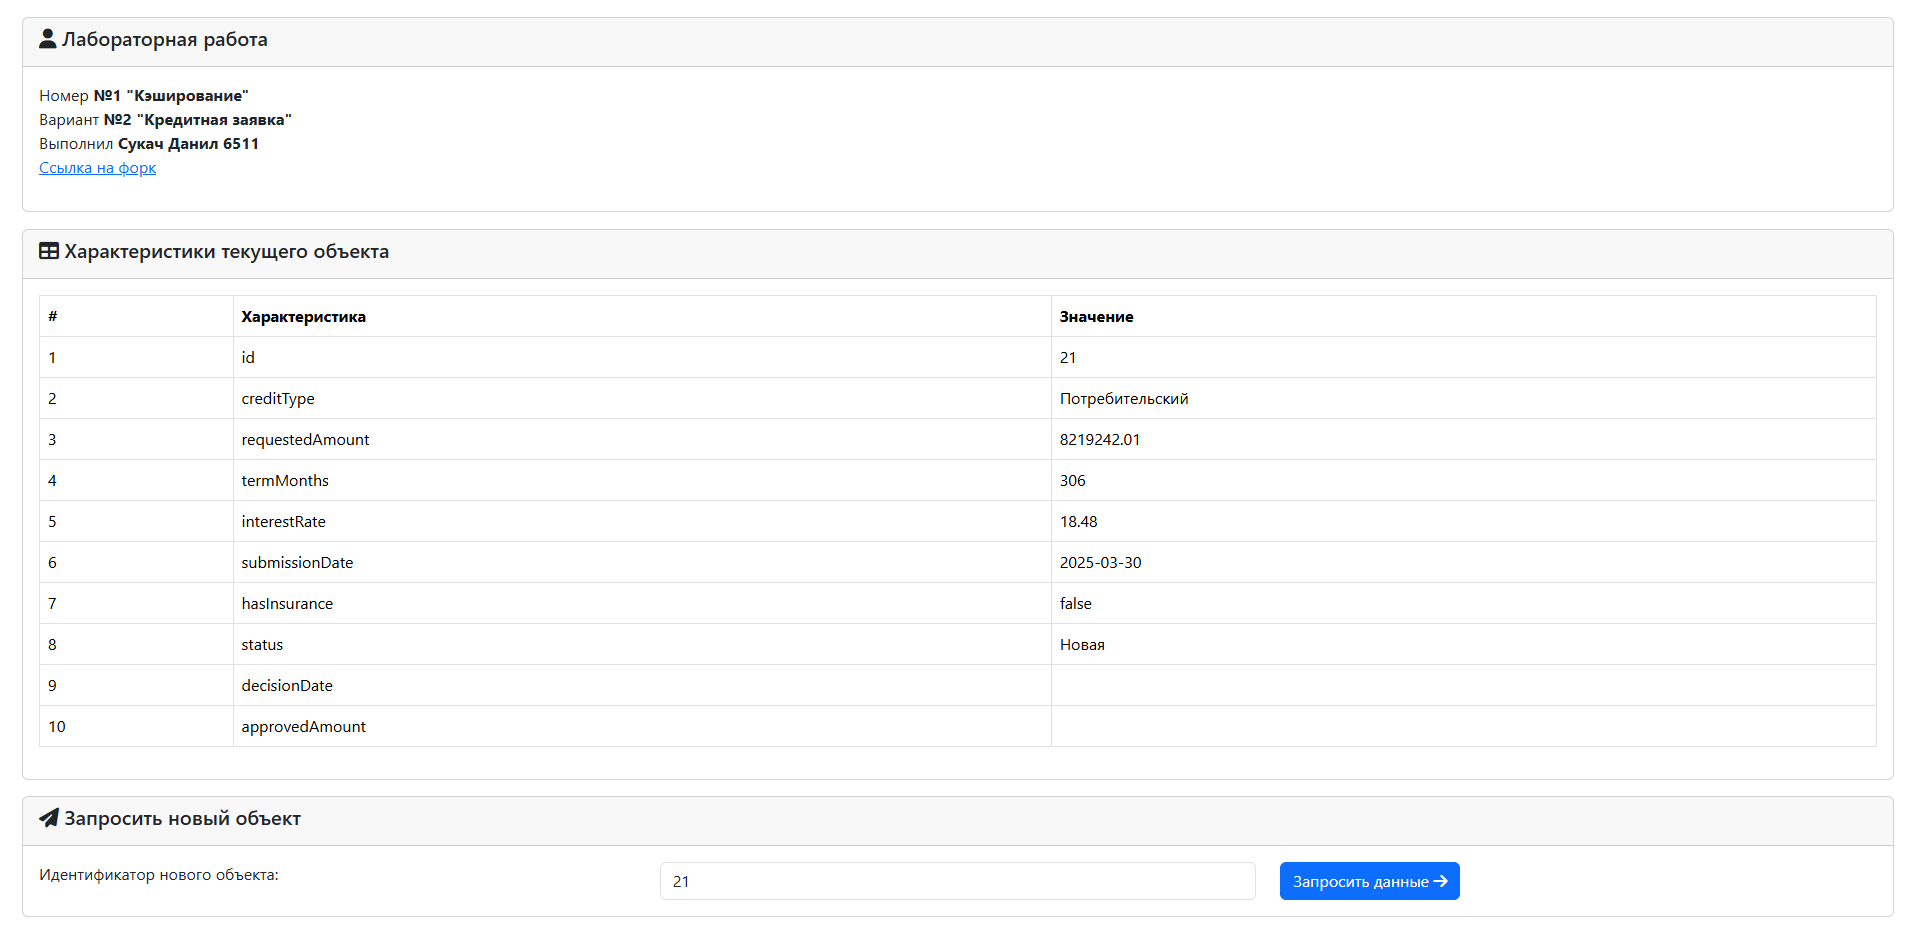
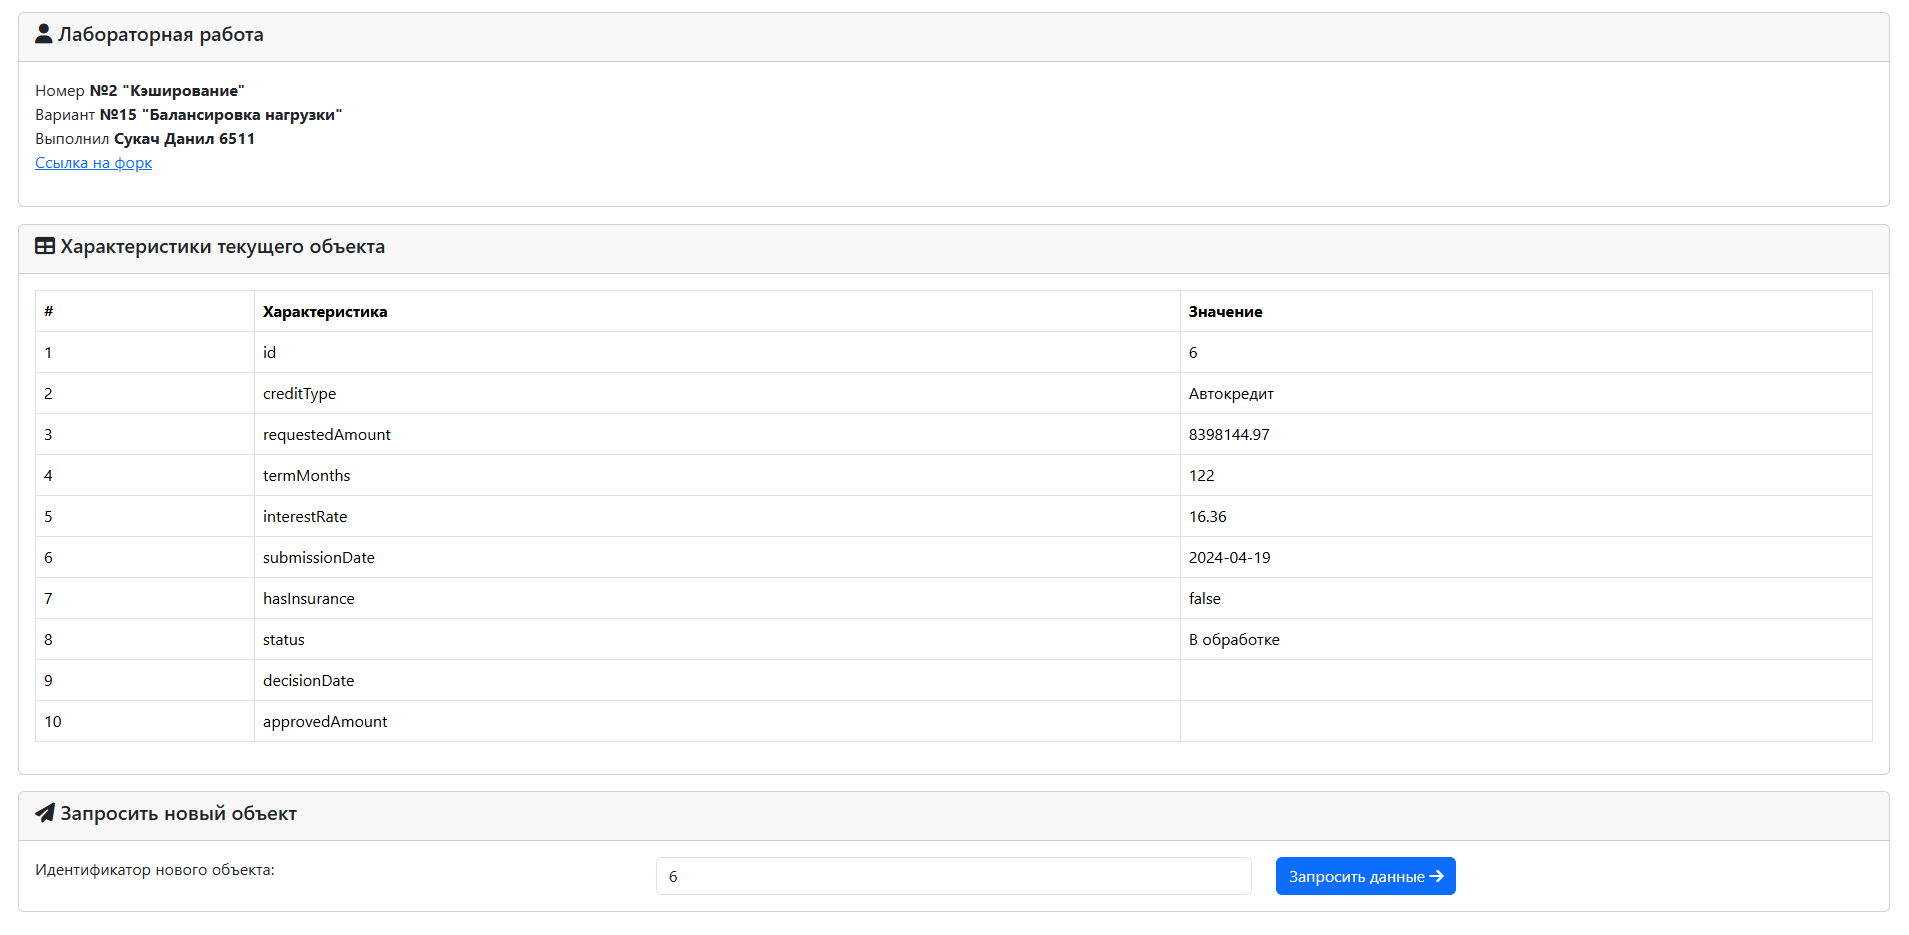
обновил readme

diff --git a/README.md b/README.md
@@ -1,46 +1,51 @@
-# Лабораторная работа №1
+# Лабораторная работа №2
 
-## «Кэширование» --- Реализация сервиса генерации контрактов
+## «Балансировка нагрузки» --- API Gateway с Weighted Round Robin
 
 ## Что было сделано
 
-В рамках первой лабораторной работы реализован микросервис генерации
-контрактов с использованием кэширования и оркестрации.
+В рамках второй лабораторной работы реализован API Gateway с балансировкой нагрузки между репликами сервиса генерации контрактов.
 
-### 1. Реализован сервис генерации контрактов
+### 1. Создан API Gateway на базе Ocelot
 
--   Создан ASP.NET Core Web API сервис.
--   Реализована генерация контрактов с использованием библиотеки Bogus.
--   Контракт содержит основные поля: Id, номер, имя клиента, дата,
-    сумма, статус.
--   Добавлен endpoint для получения контракта по идентификатору.
+-   Реализован проект CreditApp.Gateway.
+-   Настроена маршрутизация запросов через ocelot.json.
+-   Gateway принимает запросы на `/api/Credit` и перенаправляет их на downstream-сервисы.
+-   Настроен HTTPS-эндпоинт на порту 7201.
 
-### 2. Реализовано кэширование через Redis
+### 2. Реализована балансировка нагрузки Weighted Round Robin
 
--   Подключён Redis.
--   Настроен IDistributedCache.
--   Реализована логика:
-    -   При первом запросе контракт генерируется и сохраняется в Redis.
-    -   При повторном запросе данные возвращаются из кэша.
--   Настроено время жизни кэша (TTL).
+-   Реализован кастомный балансировщик `WeightedRoundRobinBalancer`.
+-   Каждая реплика получает количество запросов, пропорциональное её весу.
+-   Настроены веса реплик: credit-api-1 = 3, credit-api-2 = 2, credit-api-3 = 1.
 
-### 4. Настроена оркестрация через .NET Aspire
+### 3. Развёрнуто 3 реплики API-сервиса
 
--   Создан проект AppHost.
--   Подключён сервис генерации контрактов.
--   Добавлен Redis как зависимость.
--   Настроены связи между сервисами.
--   Запуск всей инфраструктуры осуществляется через Aspire.
+-   credit-api-1 (порты 7001/7081)
+-   credit-api-2 (порты 7002/7082)
+-   credit-api-3 (порты 7003/7083)
+-   Все реплики подключены к общему Redis-кэшу.
+
+### 4. Реализована интеграция с Aspire Service Discovery
+
+-   Создано расширение `AspireServiceDiscoveryExtensions` для динамического разрешения адресов downstream-сервисов из переменных окружения Aspire.
+-   Адреса реплик переопределяются в конфигурации Ocelot автоматически.
+
+### 7. Оркестрация через .NET Aspire
+
+-   В AppHost настроены 3 реплики API, Gateway и клиент.
+-   Настроены зависимости и порядок запуска через `WaitFor`.
 
 ## Используемые технологии
 
 -   .NET 8
 -   ASP.NET Core Web API
+-   Ocelot API Gateway
+-   Blazor WebAssembly
 -   Bogus
 -   Redis
 -   IDistributedCache
 -   .NET Aspire
--   Docker
 
 ## Скриншоты
 
